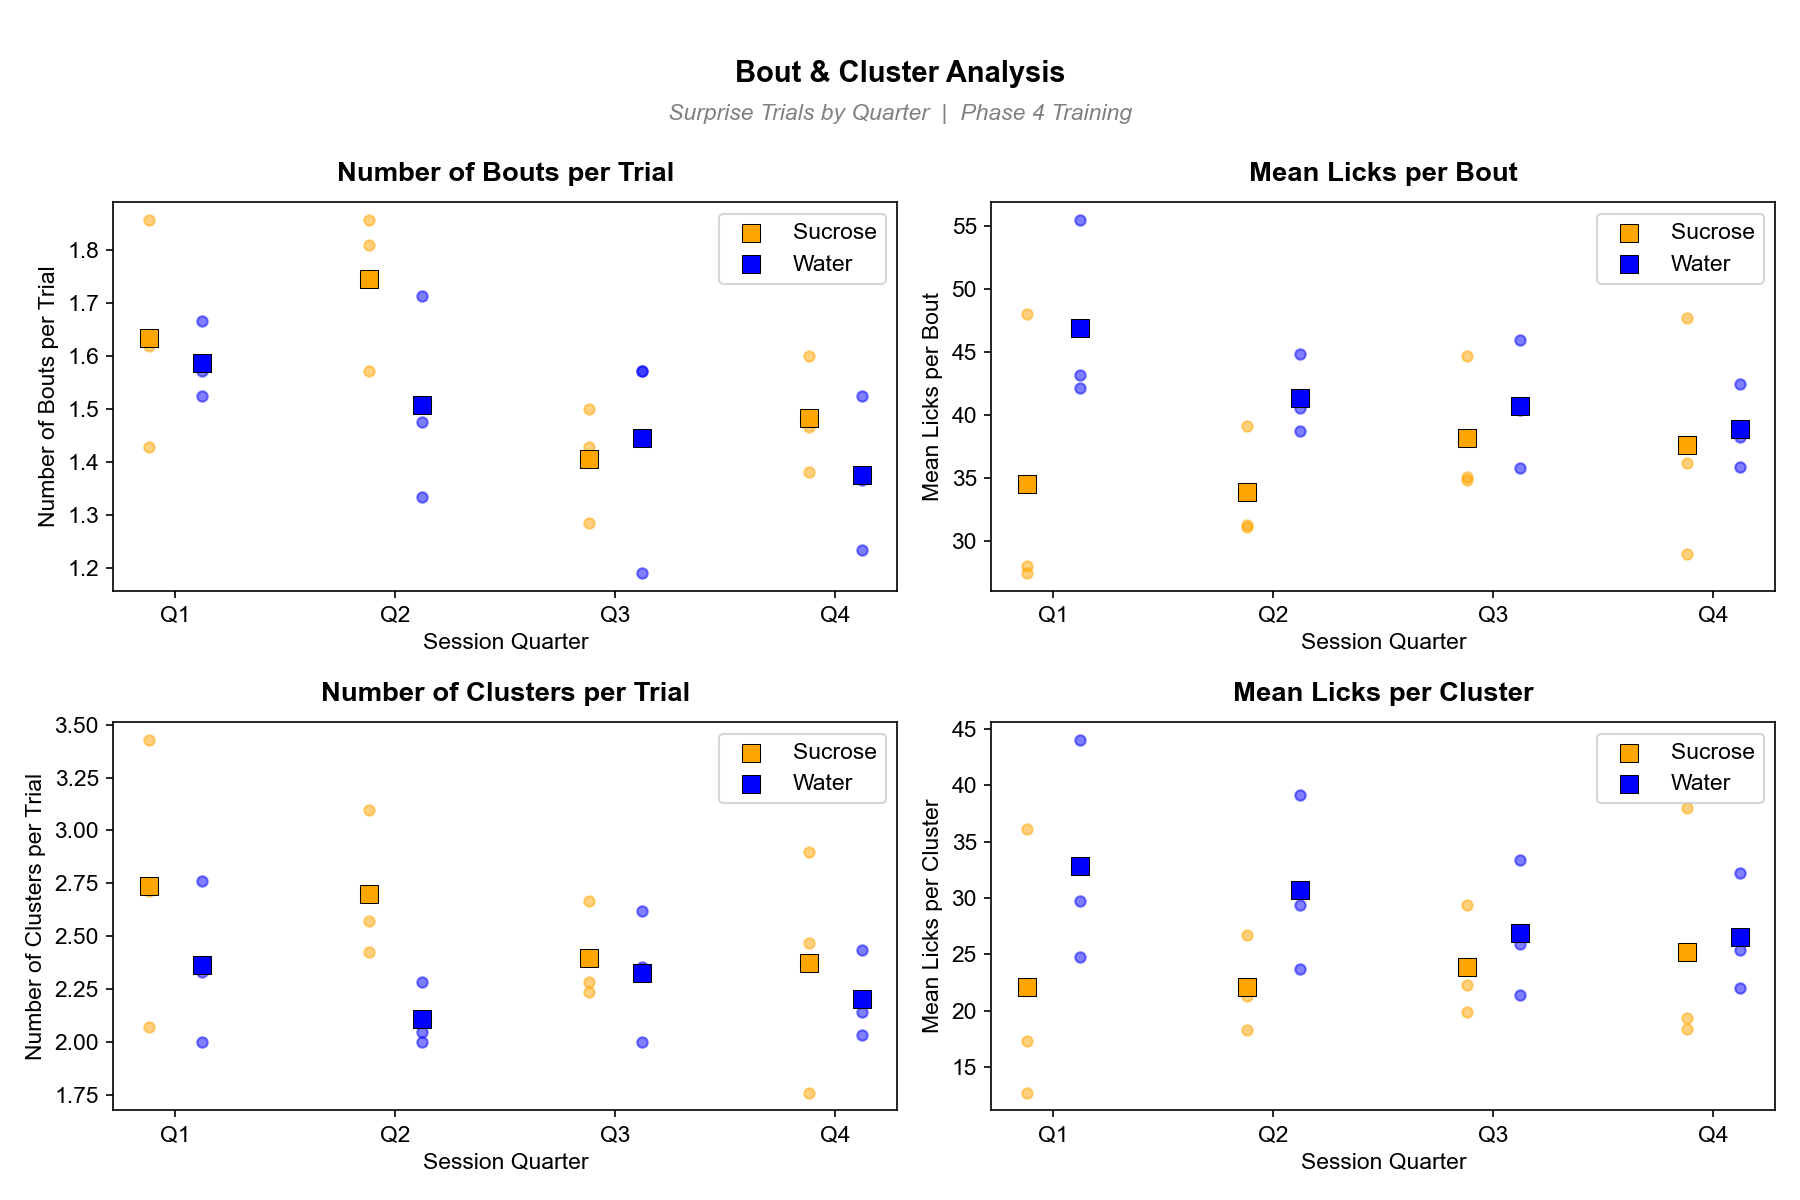
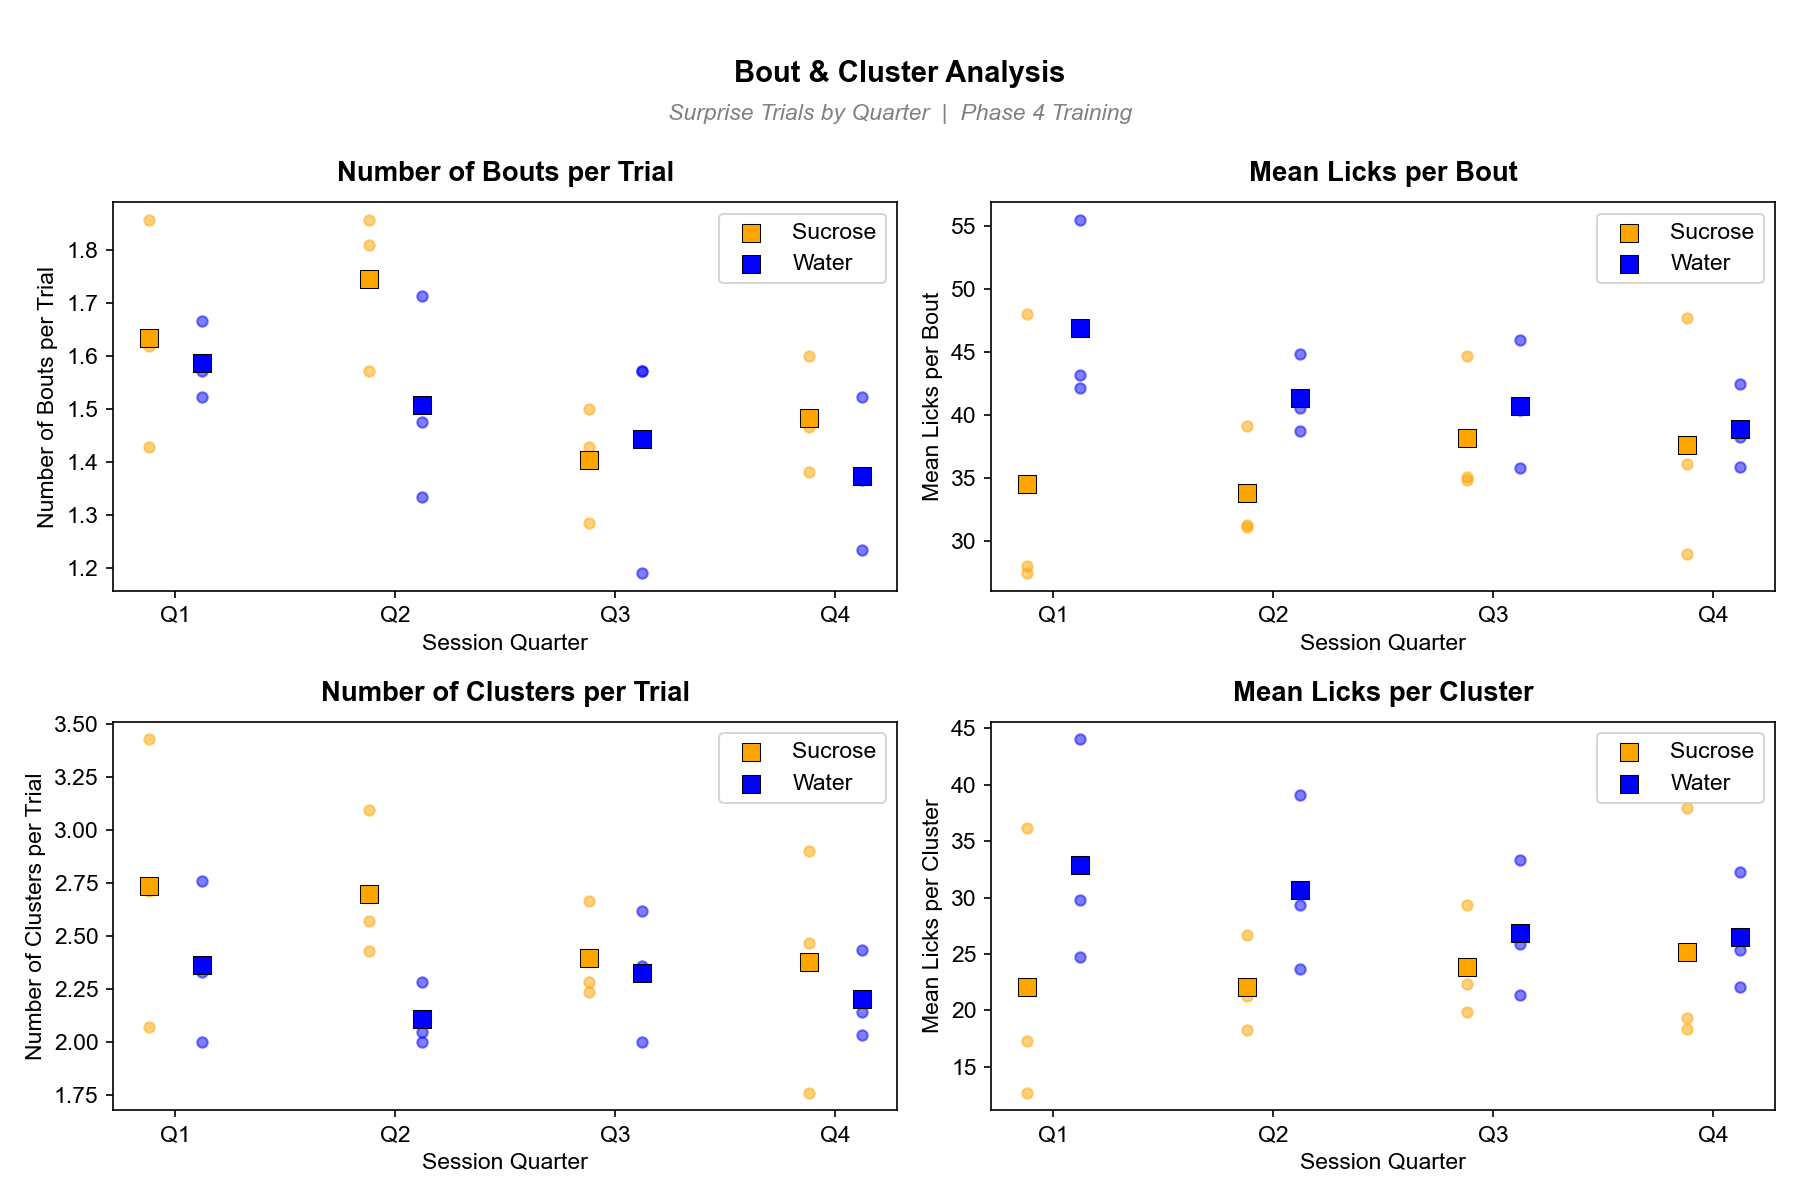
made formatting edits

diff --git a/data_org.py b/data_org.py
@@ -536,6 +536,11 @@ def plot_cs_to_response_latency(grid, etoh_id):
     y-axis: latency in seconds
     """
 
+    # QUESTIONS FOR WEDNESDAY
+    # 1. There are a couple data points that have super high latency, how do we handle those (could be non-trial related activity)
+    # 
+
+
     # make lists for latencies (4 lists)
     
     etoh_forced_lat = []
@@ -546,34 +551,120 @@ def plot_cs_to_response_latency(grid, etoh_id):
 
     # loop through each session
     
+    for (rat, date), data in grid.items():
 
-        # make separate variables for important variables
+        # set important variables
+        licks = data['Lick']
+        ids = data['TrialID']
+        cues = data['CS_start']
+        rew_L = data['rewON_L']
+        rew_R = data['rewON_R']
+        port_enter = data['PortEnter']
+        lp_L = data['rewLP_L']   # left lever press timestamps
+        lp_R = data['rewLP_R']   # right lever press timestamps
+        n = len(ids)
+
 
         # pull trial id (water vs etoh)
+        if data['rewID_L'][0] == etoh_id:
+            eth_trial = 1   # ethanol on left, trial 1 fires left
+            wat_trial = 2   # water on right, trial 2 fires right
+        else:
+            eth_trial = 2
+            wat_trial = 1
 
         # go through each trial
+        for i in range(n):
+            t = ids[i]
 
-        # get time window (time stamps for beginning + end) for this trial
+            # get time window (time stamps for beginning + end) for this trial
+            cue = cues[i]
+            nxt = cues[i + 1] if i < n - 1 else np.inf
+
 
         # SURPRISE TRIALS (id 1 or 2)
-            
-            # find first port entry after CS onset within this trial's window
+            if t == 1 or t == 2:
 
-            # store under correct reward type
+                # find first port entry after CS onset within this trial's window
+                in_trial = (port_enter >= cue) & (port_enter < nxt)
+                if not np.any(in_trial):
+                    continue
+
+                # first port entry after cue
+                first_entry = port_enter[in_trial][0]
+                latency = first_entry - cue
+
+                # store under correct reward type
+                if t == eth_trial:
+                    etoh_forced_lat.append(latency)
+                else:
+                    water_forced_lat.append(latency)
 
         # CHOICE TRIALS (id 3)
-
             # elif t == 3:
+            elif t == 3:
 
-            # check which lever was pressed within this trial's window
+                # check which lever was pressed within this trial's window
+                lp_L_in = lp_L[(lp_L >= cue) & (lp_L < nxt)]
+                lp_R_in = lp_R[(lp_R >= cue) & (lp_R < nxt)]
 
-            # figure out which one fired, calculate latency
+                # figure out which one fired, calculate latency
+                if len(lp_L_in) > 0 and len(lp_R_in) > 0:
+                    # both fired — use whichever came first
+                    press_time = min(lp_L_in[0], lp_R_in[0])
+                    pressed_side = 'L' if lp_L_in[0] < lp_R_in[0] else 'R'
+                elif len(lp_L_in) > 0:
+                    press_time = lp_L_in[0]
+                    pressed_side = 'L'
+                elif len(lp_R_in) > 0:
+                    press_time = lp_R_in[0]
+                    pressed_side = 'R'
+                else:
+                    continue  # no lever press found, skip trial
 
-            # figure out which reward the rat chose based on which side it pressed + whether that side is etoh/water for this rat
+                latency = press_time - cue
+
+                # figure out which reward the rat chose based on which side it pressed 
+                # + whether that side is etoh/water for this rat
+                if pressed_side == 'L':
+                    chose_eth = (data['rewID_L'][0] == etoh_id)
+                else:
+                    chose_eth = (data['rewID_L'][0] != etoh_id)
+
+                if chose_eth:
+                    etoh_choice_lat.append(latency)
+                else:
+                    water_choice_lat.append(latency)
 
         
-        # plot + formatting
-            
+    # plot + formatting
+    fig, (ax1, ax2) = plt.subplots(1, 2, figsize=(14, 5))
+
+    # surprise trials subplot
+    ax1.scatter(range(len(etoh_forced_lat)), etoh_forced_lat,
+                color='darkorange', s=10, alpha=0.5, label='Ethanol')
+    ax1.scatter(range(len(water_forced_lat)), water_forced_lat,
+                color='blue', s=10, alpha=0.5, label='Water')
+    ax1.set_xlabel('Trial Number')
+    ax1.set_ylabel('Latency (s)')
+    ax1.set_title('Surprise Trials: CS → Port Entry', fontweight='bold')
+    ax1.legend()
+
+    # choice trials subplot
+    ax2.scatter(range(len(etoh_choice_lat)), etoh_choice_lat,
+                color='darkorange', s=10, alpha=0.5, label='Ethanol')
+    ax2.scatter(range(len(water_choice_lat)), water_choice_lat,
+                color='blue', s=10, alpha=0.5, label='Water')
+    ax2.set_xlabel('Trial Number')
+    ax2.set_ylabel('Latency (s)')
+    ax2.set_title('Choice Trials: CS → Lever Press', fontweight='bold')
+    ax2.legend()
+
+    plt.suptitle('CS Onset to Operant Response Latency', fontsize=14, fontweight='bold', y=0.93)
+    fig.text(0.5, 0.85, 'Ethanol vs Water', ha='center', fontsize=11, fontstyle='italic', color='gray')
+    plt.tight_layout(rect=[0, 0, 1, 0.87])
+    plt.savefig('cs_to_operant_latency.png', dpi=150)
+    plt.show()
 
 
 
@@ -604,144 +695,5 @@ if __name__ == '__main__':
     # --- bout & cluster analysis ---
     plot_bout_cluster_analysis(grid)
 
-
-
-
-"""
-
-def plot_cs_to_operant_latency(grid, etoh_id=7):
-    
-    Plots the latency (in seconds) from CS onset to operant response,
-    separately for surprise and choice trials, with one line per reward type.
-
-    Surprise trials: operant response = first port entry after CS onset
-    Choice trials: operant response = whichever lever press (L or R) fired in that trial's window
-
-    Two subplots:
-        Left:  Surprise trials — water vs ethanol latency over trials
-        Right: Choice trials — water vs ethanol latency over trials
-
-    x-axis: trial number (across all sessions, cumulative)
-    y-axis: latency in seconds
-    
-
-    # storage for latencies across all sessions
-    # each list will hold one value per trial, in order
-    suc_surprise_lat = []   # water surprise latencies
-    eth_surprise_lat = []   # ethanol surprise latencies
-    suc_choice_lat = []     # water choice latencies
-    eth_choice_lat = []     # ethanol choice latencies
-
-    # --- loop through every session ---
-    for (rat, date), data in grid.items():
-
-        licks = data['Lick']
-        ids = data['TrialID']
-        cues = data['CS_start']
-        rew_L = data['rewON_L']
-        rew_R = data['rewON_R']
-        port_enter = data['PortEnter']
-        lp_L = data['rewLP_L']   # left lever press timestamps
-        lp_R = data['rewLP_R']   # right lever press timestamps
-        n = len(ids)
-
-        # --- figure out which trial ID is ethanol vs water for this rat ---
-        if data['rewID_L'][0] == etoh_id:
-            eth_trial = 1   # ethanol on left, trial 1 fires left
-            wat_trial = 2   # water on right, trial 2 fires right
-        else:
-            eth_trial = 2
-            wat_trial = 1
-
-        # --- go through each trial ---
-        for i in range(n):
-            t = ids[i]
-
-            # get time window for this trial
-            cue = cues[i]
-            nxt = cues[i + 1] if i < n - 1 else np.inf
-
-            # --- SURPRISE TRIALS (TrialID 1 or 2) ---
-            if t == 1 or t == 2:
-
-                # find first port entry after CS onset within this trial's window
-                in_trial = (port_enter >= cue) & (port_enter < nxt)
-                if not np.any(in_trial):
-                    continue
-
-                # first port entry after cue
-                first_entry = port_enter[in_trial][0]
-                latency = first_entry - cue
-
-                # store under correct reward type
-                if t == eth_trial:
-                    eth_surprise_lat.append(latency)
-                else:
-                    suc_surprise_lat.append(latency)
-
-            # --- CHOICE TRIALS (TrialID 3) ---
-            elif t == 3:
-
-                # check which lever was pressed within this trial's window
-                lp_L_in = lp_L[(lp_L >= cue) & (lp_L < nxt)]
-                lp_R_in = lp_R[(lp_R >= cue) & (lp_R < nxt)]
-
-                # figure out which one fired and compute latency
-                if len(lp_L_in) > 0 and len(lp_R_in) > 0:
-                    # both fired — use whichever came first
-                    press_time = min(lp_L_in[0], lp_R_in[0])
-                    pressed_side = 'L' if lp_L_in[0] < lp_R_in[0] else 'R'
-                elif len(lp_L_in) > 0:
-                    press_time = lp_L_in[0]
-                    pressed_side = 'L'
-                elif len(lp_R_in) > 0:
-                    press_time = lp_R_in[0]
-                    pressed_side = 'R'
-                else:
-                    continue  # no lever press found, skip trial
-
-                latency = press_time - cue
-
-                # figure out which reward the rat chose based on which side it pressed
-                # and whether that side is ethanol or water for this rat
-                if pressed_side == 'L':
-                    chose_eth = (data['rewID_L'][0] == etoh_id)
-                else:
-                    chose_eth = (data['rewID_L'][0] != etoh_id)
-
-                if chose_eth:
-                    eth_choice_lat.append(latency)
-                else:
-                    suc_choice_lat.append(latency)
-
-    # --- plot ---
-    fig, (ax1, ax2) = plt.subplots(1, 2, figsize=(14, 5))
-
-    # surprise trials subplot
-    ax1.scatter(range(len(eth_surprise_lat)), eth_surprise_lat,
-                color='darkorange', s=10, alpha=0.5, label='Ethanol')
-    ax1.scatter(range(len(suc_surprise_lat)), suc_surprise_lat,
-                color='blue', s=10, alpha=0.5, label='Water')
-    ax1.set_xlabel('Trial Number')
-    ax1.set_ylabel('Latency (s)')
-    ax1.set_title('Surprise Trials: CS → Port Entry', fontweight='bold')
-    ax1.legend()
-
-    # choice trials subplot
-    ax2.scatter(range(len(eth_choice_lat)), eth_choice_lat,
-                color='darkorange', s=10, alpha=0.5, label='Ethanol')
-    ax2.scatter(range(len(suc_choice_lat)), suc_choice_lat,
-                color='blue', s=10, alpha=0.5, label='Water')
-    ax2.set_xlabel('Trial Number')
-    ax2.set_ylabel('Latency (s)')
-    ax2.set_title('Choice Trials: CS → Lever Press', fontweight='bold')
-    ax2.legend()
-
-    plt.suptitle('CS Onset to Operant Response Latency', fontsize=14, fontweight='bold', y=1.01)
-    fig.text(0.5, 0.96, 'Phase 4 Training  |  Ethanol vs Water',
-             ha='center', fontsize=11, fontstyle='italic', color='gray')
-    plt.tight_layout()
-    plt.savefig('cs_to_operant_latency.png', dpi=150)
-    plt.show()
-
-"""
+    # --- latency plot ---
+    plot_cs_to_response_latency(grid, 7)
